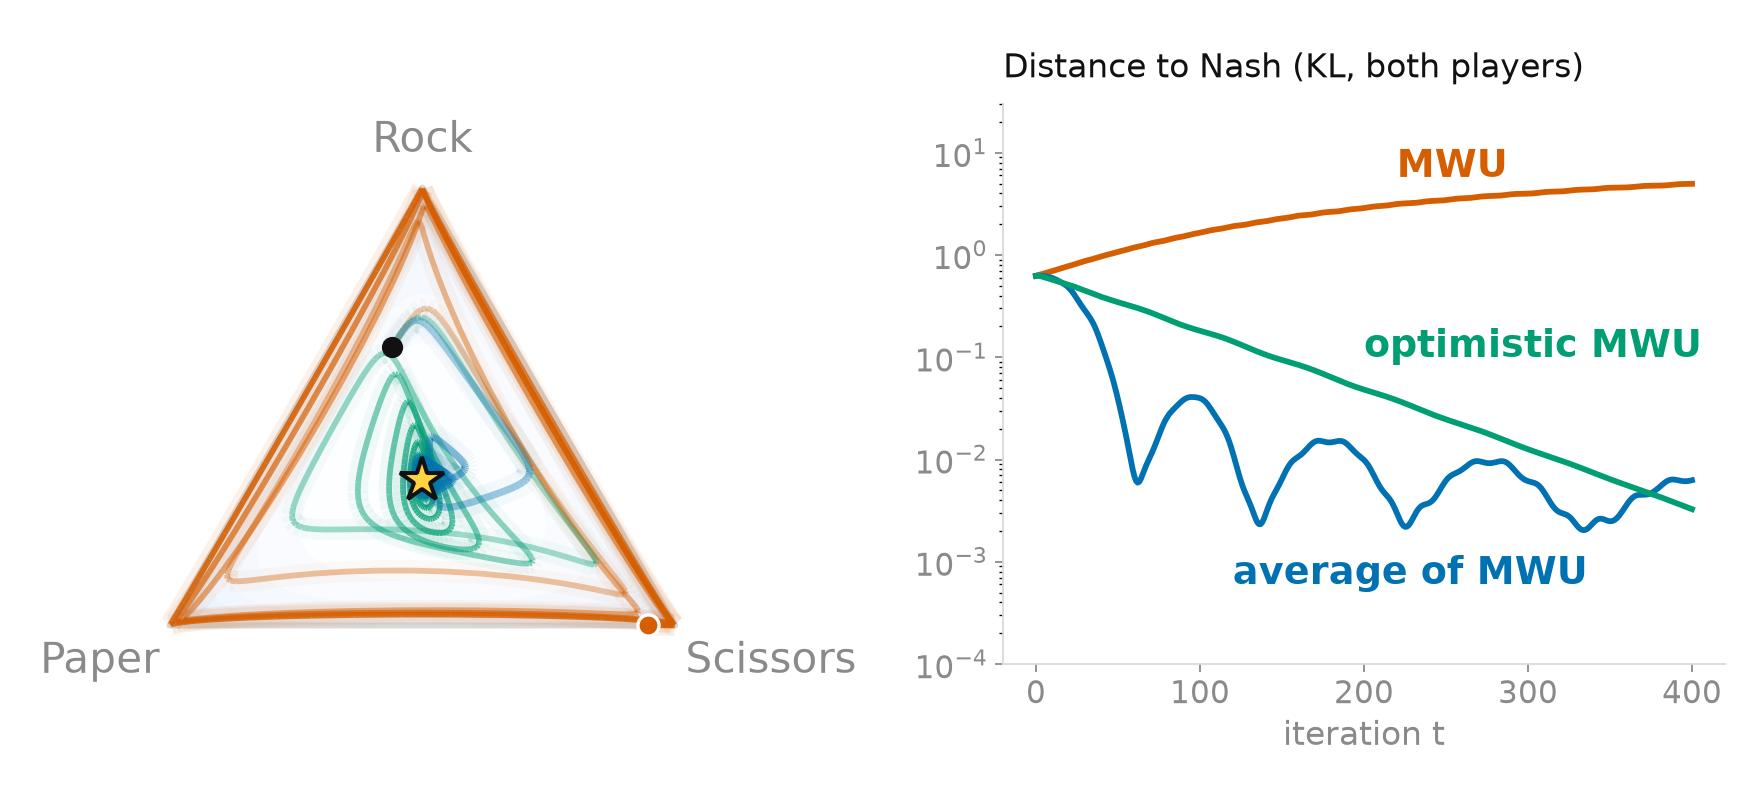
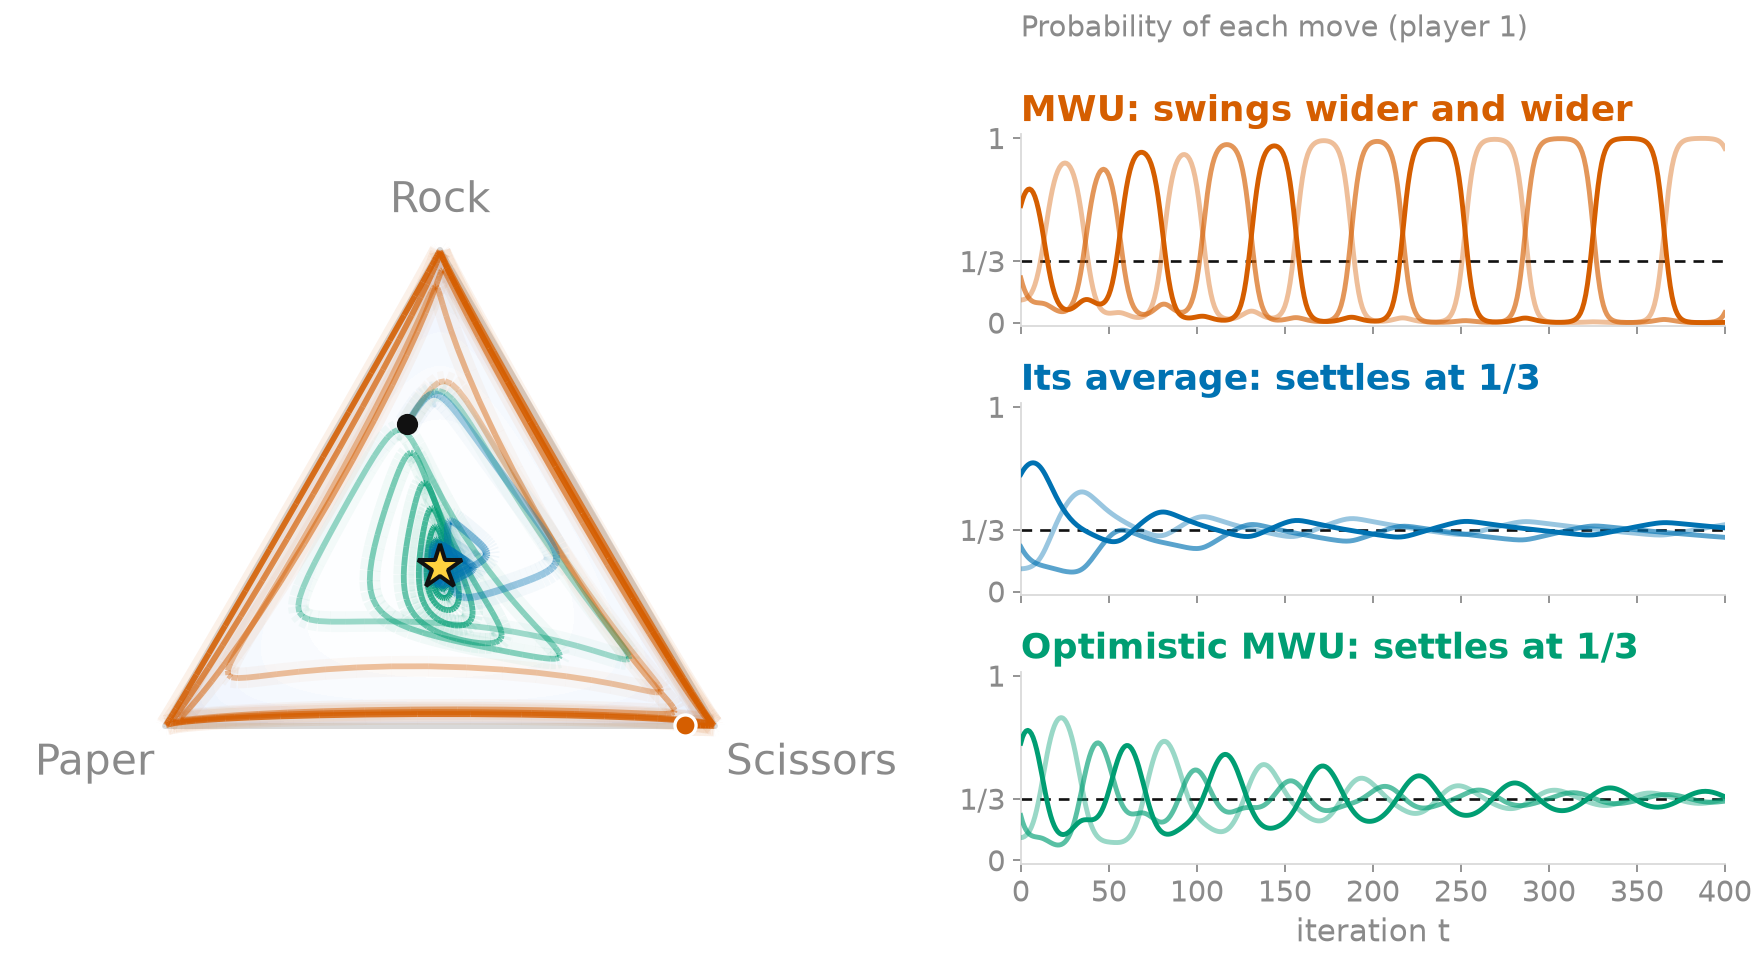
Sketch figure: show each move's probability over time instead of the KL curve

diff --git a/sketches/mwu-rps/index.html b/sketches/mwu-rps/index.html
@@ -55,8 +55,8 @@
       </div>
 
       <figure>
-        <img src="figure.png" width="1760" height="800" alt="Left: the rock-paper-scissors simplex with the trajectory of one player under MWU (spiralling to the edge), its running average and optimistic MWU (both converging to the centre). Right: KL divergence to Nash over 400 iterations, growing for MWU, decreasing for optimistic MWU, small for the average.">
-        <figcaption>One run, step size η = 0.2, 400 rounds, both players start away from the centre. Left: player 1's strategy. Right: KL divergence to Nash, summed over both players (log scale). The average is not monotone: it wiggles around Nash.</figcaption>
+        <img src="figure.png" width="1760" height="960" alt="Left: the rock-paper-scissors simplex with the trajectory of one player under MWU (spiralling to the edge), its running average and optimistic MWU (both converging to the centre). Right: probability of each move over 400 rounds: swinging between 0 and 1 with growing amplitude for MWU, settling at 1/3 for the average and for optimistic MWU.">
+        <figcaption>One run, step size η = 0.2, 400 rounds, both players start away from the centre; player 1 is shown. Left: its strategy on the triangle (black dot: start, star: Nash). Right: the probability of each of the three moves over time; the dashed line is the Nash value 1/3. Under plain MWU the probabilities swing between 0 and 1 with growing amplitude; the average and optimistic MWU settle at 1/3.</figcaption>
       </figure>
 
       <div class="sk-anim">

diff --git a/sketches/mwu-rps/code/mwu_rps.py b/sketches/mwu-rps/code/mwu_rps.py
@@ -196,29 +196,33 @@ def tweet(r, path):
 def page_figure(r, path, theme):
     th = THEMES[theme]
     plt.rcParams["font.family"] = "DejaVu Sans"
-    fig = plt.figure(figsize=(11, 5), dpi=160, facecolor=th["bg"])
-    ax = fig.add_axes([.01, .02, .46, .94], facecolor=th["bg"])
+    fig = plt.figure(figsize=(11, 6), dpi=160, facecolor=th["bg"])
+    ax = fig.add_axes([.0, .02, .5, .94], facecolor=th["bg"])
     m, a, o, c = draw_simplex(ax, th, r, 19, 2.6)
     ax.set_xlim(-.3, 1.3); ax.set_ylim(-.14, 1.0)
-    ax2 = fig.add_axes([.57, .17, .41, .70], facecolor=th["bg"])
     t = np.arange(len(m))
-    D = {}
-    for k, (P, Q, col) in dict(mwu=(r["Xm"], r["Ym"], RED), avg=(r["Xa"], r["Ya"], BLUE), omwu=(r["Xo"], r["Yo"], GREEN)).items():
-        D[k] = kl_nash(P) + kl_nash(Q)
-        ax2.plot(t, D[k], color=col, lw=2.6)
-    ax2.set_yscale("log"); ax2.set_ylim(1e-4, 3e1)
-    for s_ in ("top", "right"):
-        ax2.spines[s_].set_visible(False)
-    for s_ in ("left", "bottom"):
-        ax2.spines[s_].set_color(th["faint"])
-    ax2.tick_params(colors=th["grey"], labelsize=14)
-    ax2.set_xlabel("iteration t", color=th["grey"], fontsize=15)
-    ax2.set_title("Distance to Nash (KL, both players)", loc="left", color=th["fg"], fontsize=15, pad=12)
-    n = len(t) - 1
-    kw = dict(fontsize=17, fontweight="bold", ha="left", va="bottom")
-    ax2.text(.55 * n, D["mwu"][int(.55 * n)] * 1.5, "MWU", color=RED, **kw)
-    ax2.text(.5 * n, D["omwu"][int(.5 * n)] * 1.7, "optimistic MWU", color=GREEN, **kw)
-    ax2.text(.3 * n, D["avg"][int(.3 * n)] * .1, "average of MWU", color=BLUE, **{**kw, "va": "top"})
+    rows = (("MWU: swings wider and wider", r["Xm"], RED),
+            ("Its average: settles at 1/3", r["Xa"], BLUE),
+            ("Optimistic MWU: settles at 1/3", r["Xo"], GREEN))
+    for k, (title, X, col) in enumerate(rows):
+        h = .20
+        axk = fig.add_axes([.58, .66 - k * .28, .40, h], facecolor=th["bg"])
+        axk.axhline(1 / 3, color=th["fg"], lw=1.2, ls=(0, (4, 3)), zorder=1)
+        for i, (al, ls_) in enumerate(((1.0, "-"), (.65, "-"), (.4, "-"))):
+            axk.plot(t, X[:, i], color=col, lw=2.2, alpha=al, ls=ls_, zorder=3)
+        axk.set_ylim(-.02, 1.02); axk.set_xlim(0, t[-1])
+        axk.set_yticks([0, 1 / 3, 1]); axk.set_yticklabels(["0", "1/3", "1"])
+        for s_ in ("top", "right"):
+            axk.spines[s_].set_visible(False)
+        for s_ in ("left", "bottom"):
+            axk.spines[s_].set_color(th["faint"])
+        axk.tick_params(colors=th["grey"], labelsize=13)
+        if k < 2:
+            axk.set_xticklabels([])
+        else:
+            axk.set_xlabel("iteration t", color=th["grey"], fontsize=14)
+        axk.set_title(title, loc="left", color=col, fontsize=16, fontweight="bold", pad=6)
+    fig.text(.58, .985, "Probability of each move (player 1)", color=th["grey"], fontsize=13, va="top")
     fig.savefig(path, facecolor=th["bg"])
     plt.close(fig)
 
